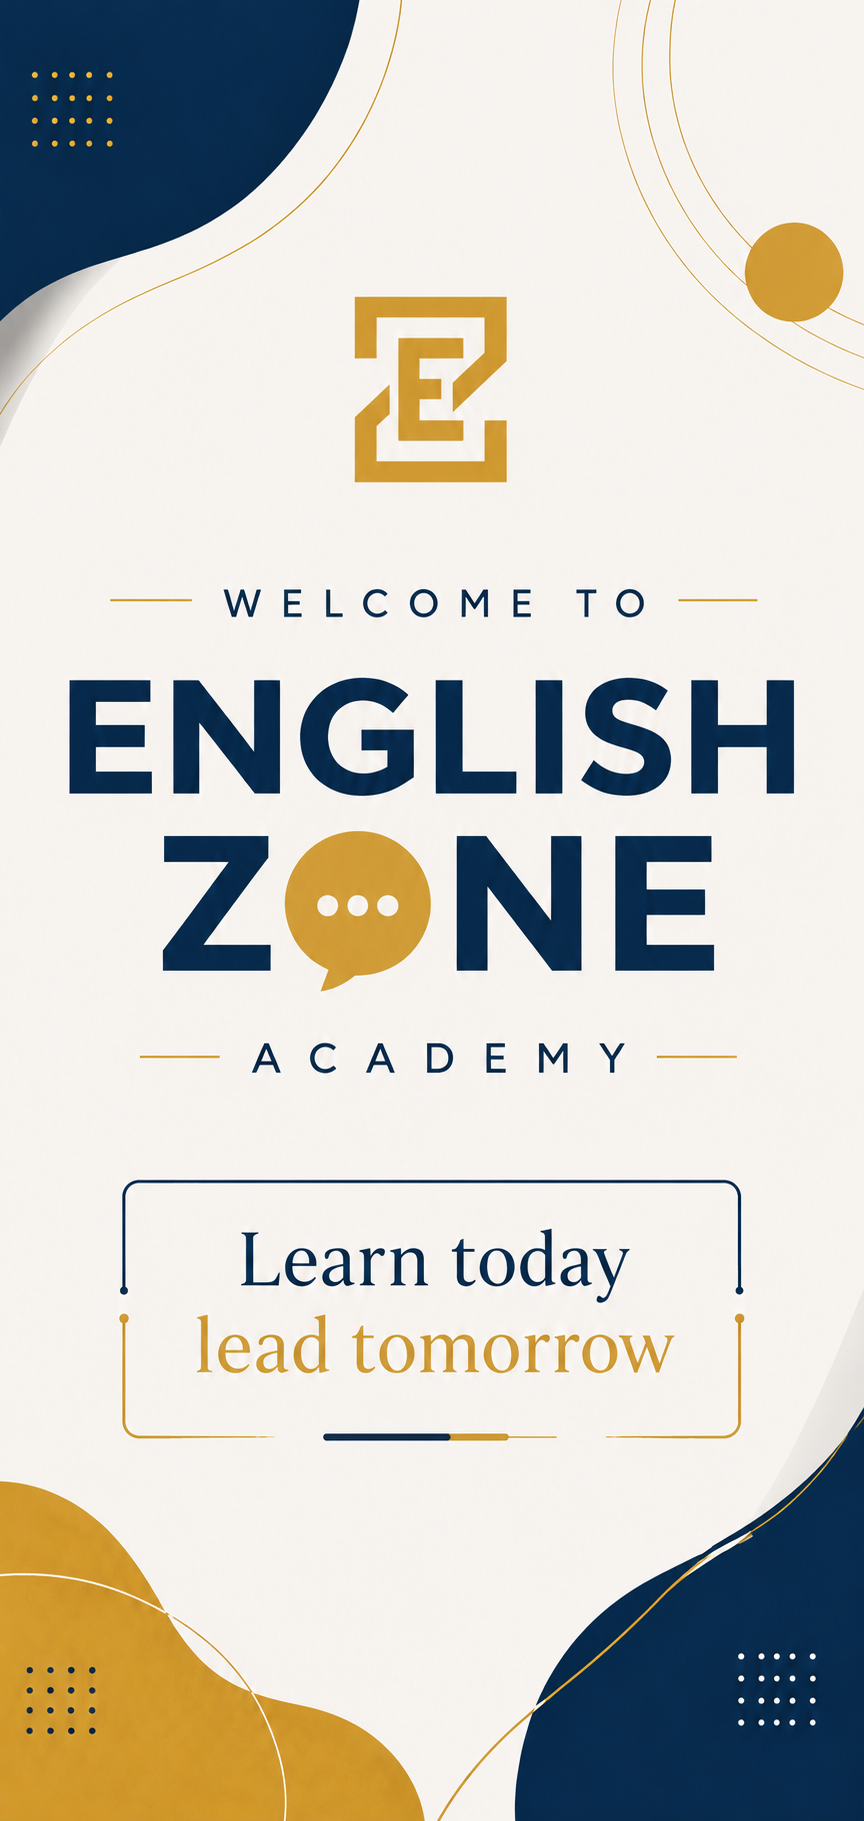
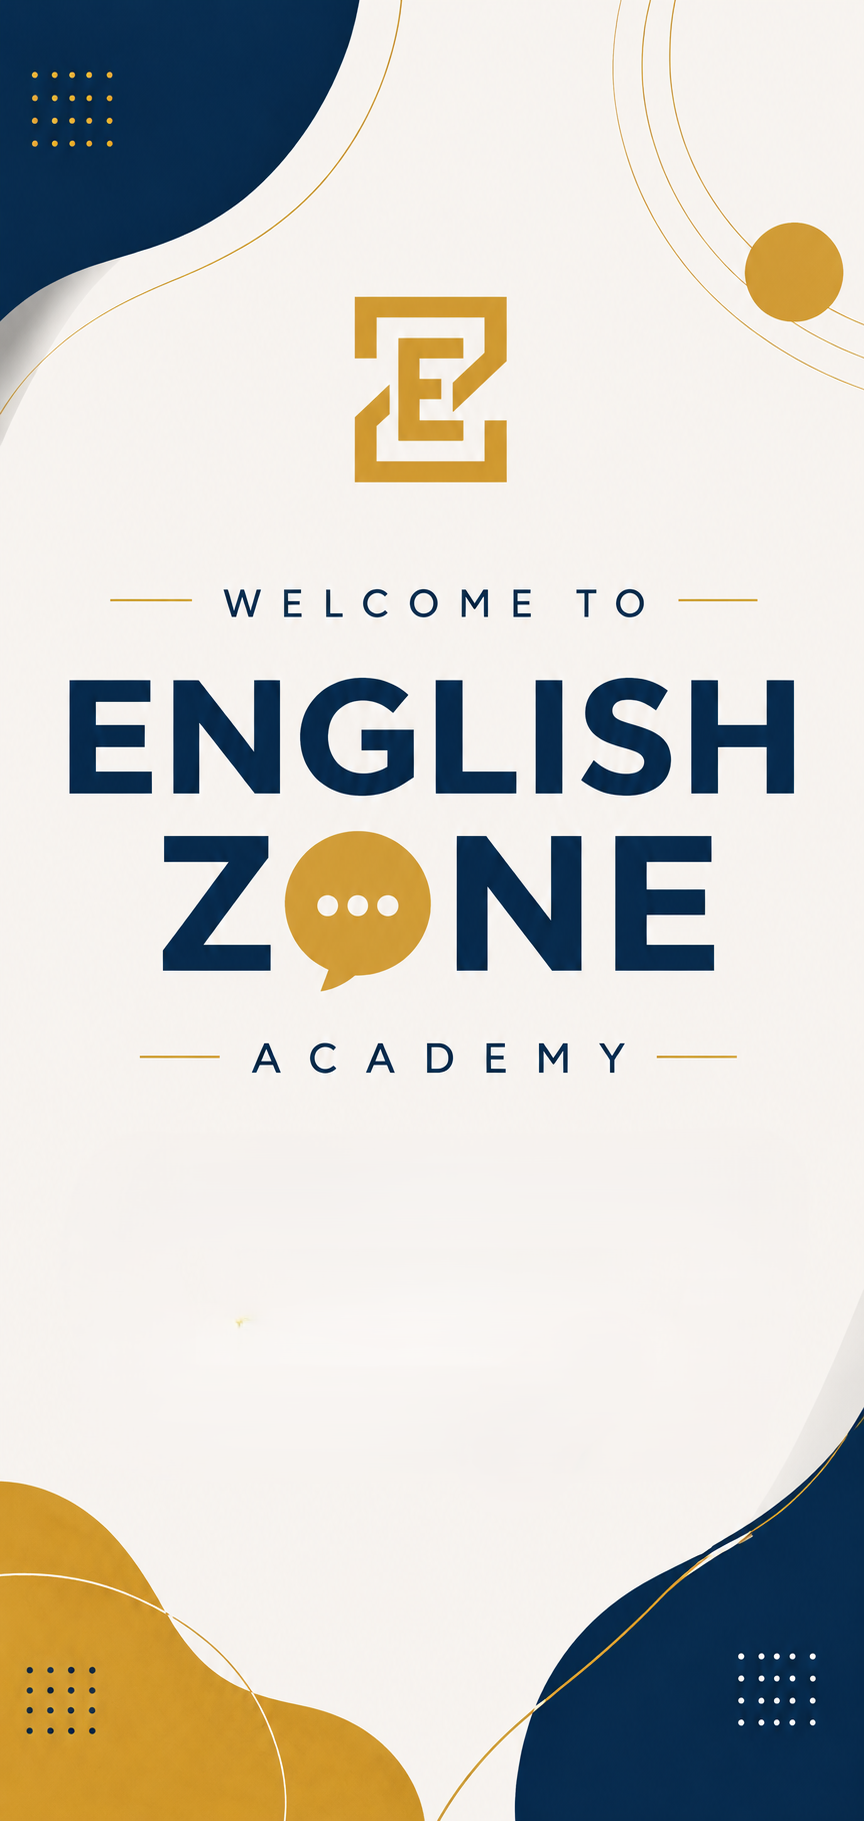
Add files via upload

Changed region(s): [[0.2188, 0.6458, 0.7812, 0.7996], [0.125, 0.6458, 0.1562, 0.7996], [0.8438, 0.6458, 0.875, 0.7688]]

diff --git a/index.html b/index.html
@@ -1146,9 +1146,10 @@
         <br>
           <br>
           <br>
-          <br>
-            <br>
-            <br>
+          
+            
+            
+            
             
        
 
@@ -1281,13 +1282,9 @@
         <!-- Adults Panel -->
         <div id="adults" class="content-display-panel">
             <div class="panel-meta">
-                <h3 class="panel-title">كورسات الكبار في English Zone Academy</h3>
-                <div class="price-tag-box">
-                    <span class="current-price">التكلفة: 2500 جنيه للـ 3 شهور كاملة</span>
-                </div>
-                <div class="offer-alert" style="background: linear-gradient(135deg, #f0fdfa 0%, #ccfbf1 100%); border-right-color: var(--accent-blue); color: var(--primary-blue);">
-                    تفاصيل الباكدج الشامل: مدة 3 شهور كاملة | محاضرتين أسبوعيًا | المحاضرة ساعتان | إجمالي الباكدج حوالي 50 ساعة تدريبية مع تحديد مستوى كامل قبل البدء.
-                </div>
+                <h3 class="panel-title">كورسات الكبار :   </h3>
+             <img src="photo/كبار.png" alt="" width="300" height="200" style="border-style: groove; border-radius: 15px;">
+               
             </div>
 
             <h4 style="color: var(--accent-blue); margin: 20px 0 8px 0;">  General English</h4>
@@ -1311,7 +1308,23 @@
                 <li>Customer Service & Negotiation Skills (خدمة العملاء ومهارات التفاوض والإقناع)</li>
             </ul>
             <p style="font-size: 0.95rem; color: var(--text-muted); margin-bottom: 20px;">كورس مثالي للحصول على وظائف مرموقة، الترقيات، والتعامل المهني السلس داخل الشركات.</p>
-
+             <div class="offer-alert" style="background: linear-gradient(135deg, #f0fdfa 0%, #ccfbf1 100%); border-right-color: var(--accent-blue); color: var(--primary-blue);">
+                    تفاصيل الباكدج الشامل: مدة 3 شهور كاملة | محاضرتين أسبوعيًا | المحاضرة ساعتان | إجمالي الباكدج حوالي 50 ساعة تدريبية مع تحديد مستوى كامل قبل البدء.
+                </div>
+<div class="price-tag-box" >
+    <div class="price-item" >
+        <span class="group-type">الجروب:</span>
+        <span class="current-price">2500 جنيه</span>
+    </div>
+    <div class="price-item"style="color: #991b1b;">
+        <span class="group-type">الميني جروب:</span>
+        <span class="current-price">3500 جنيه</span>
+    </div>
+    <div class="price-item"style="color: #991b1b;">
+        <span class="group-type">البريفيت:</span>
+        <span class="current-price">6000 جنيه</span>
+    </div>
+</div>
             <div class="action-button-wrapper">
                 <button class="enroll-now-btn" onclick="triggerEnrollmentModal('Adults', [
                     {label: 'General English', value: 'General English', price: ''},
@@ -1323,14 +1336,8 @@
         <!-- German Panel -->
         <div id="german" class="content-display-panel">
             <div class="panel-meta">
-                <h3 class="panel-title">كورس اللغة الألمانية الفاخر</h3>
-                <div class="price-tag-box">
-                    <span class="current-price">التكلفة: 3000 جنيه للـ 3 شهور</span>
-                </div>
-                <div class="offer-alert">
-                    العروض المميزة: خصم 250 جنيه لأول 20 مشترك | خصم 500 جنيه كاملة في حالة حجز كورس الإنجليزي بالتزامن مع الألماني!
-                </div>
-            </div>
+                <h3 class="panel-title">كورس اللغة الألمانية :</h3>
+<img src="photo/الماني.png" alt="" width="300" height="200" style="border-style: groove; border-radius: 15px;">
 
             <ul class="features-list">
                 <li><strong>تفاصيل الباكدج:</strong> مدة 3 شهور كاملة.</li>
@@ -1349,6 +1356,14 @@
                 <li>التجهيز التام للامتحانات أو السفر والدراسة في ألمانيا (إذا كان هذا مطلوباً).</li>
                 <li>الكورس متاح ومناسب بالكامل للأطفال، المراهقين، والكبار على حد سواء.</li>
             </ul>
+                 <div class="price-tag-box">
+                    <span class="current-price">التكلفة: 3000 جنيه للـ 3 شهور</span>
+                </div>
+                <div class="offer-alert">
+                    العروض المميزة: خصم 250 جنيه لأول 20 مشترك | خصم 500 جنيه كاملة في حالة حجز كورس الإنجليزي بالتزامن مع الألماني!
+                </div>
+            </div>
+
 
             <div class="action-button-wrapper">
                 <button class="enroll-now-btn" onclick="triggerEnrollmentModal('German', [])">اشترك الآن</button>
@@ -1358,7 +1373,10 @@
         <!-- Online Panel -->
         <div id="online" class="content-display-panel">
             <div class="panel-meta">
-                <h3 class="panel-title">Online Courses الكورسات الأونلاين</h3>
+                <h3 class="panel-title"> الكورسات الأونلاين :</h3>
+
+<img src="photo/اونلاين.png" alt="" width="300" height="200" style="border-style: groove; border-radius: 15px;">
+
                 <p style="color: var(--text-muted); margin-top: 5px;"><strong>تفاصيل باكدج الأونلاين:</strong> مدة 3 شهور كاملة — 50 ساعة تدريبية مكثفة وتفاعلية (محاضرتين أسبوعيًا — مدة المحاضرة ساعتين).</p>
             </div>
 